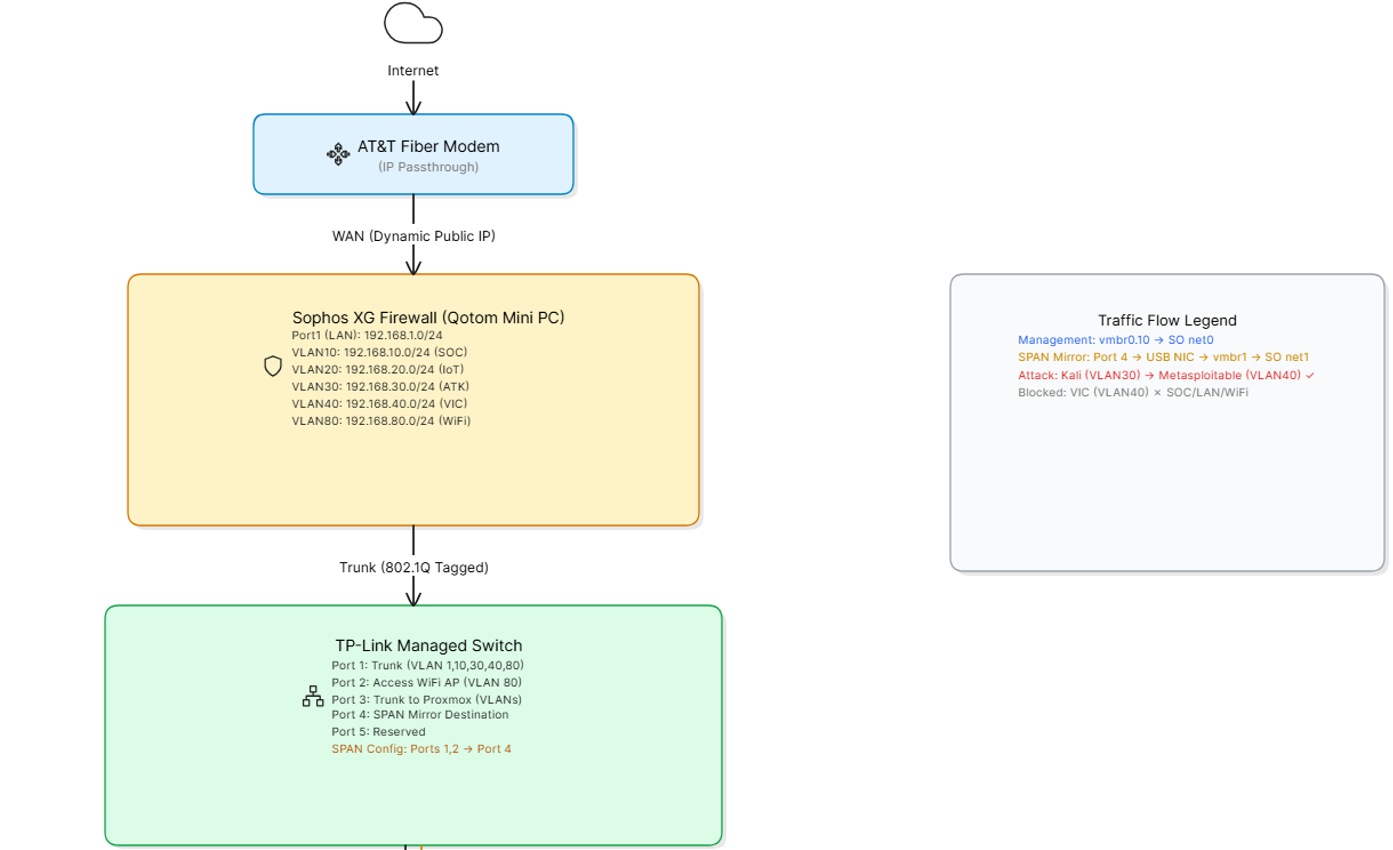
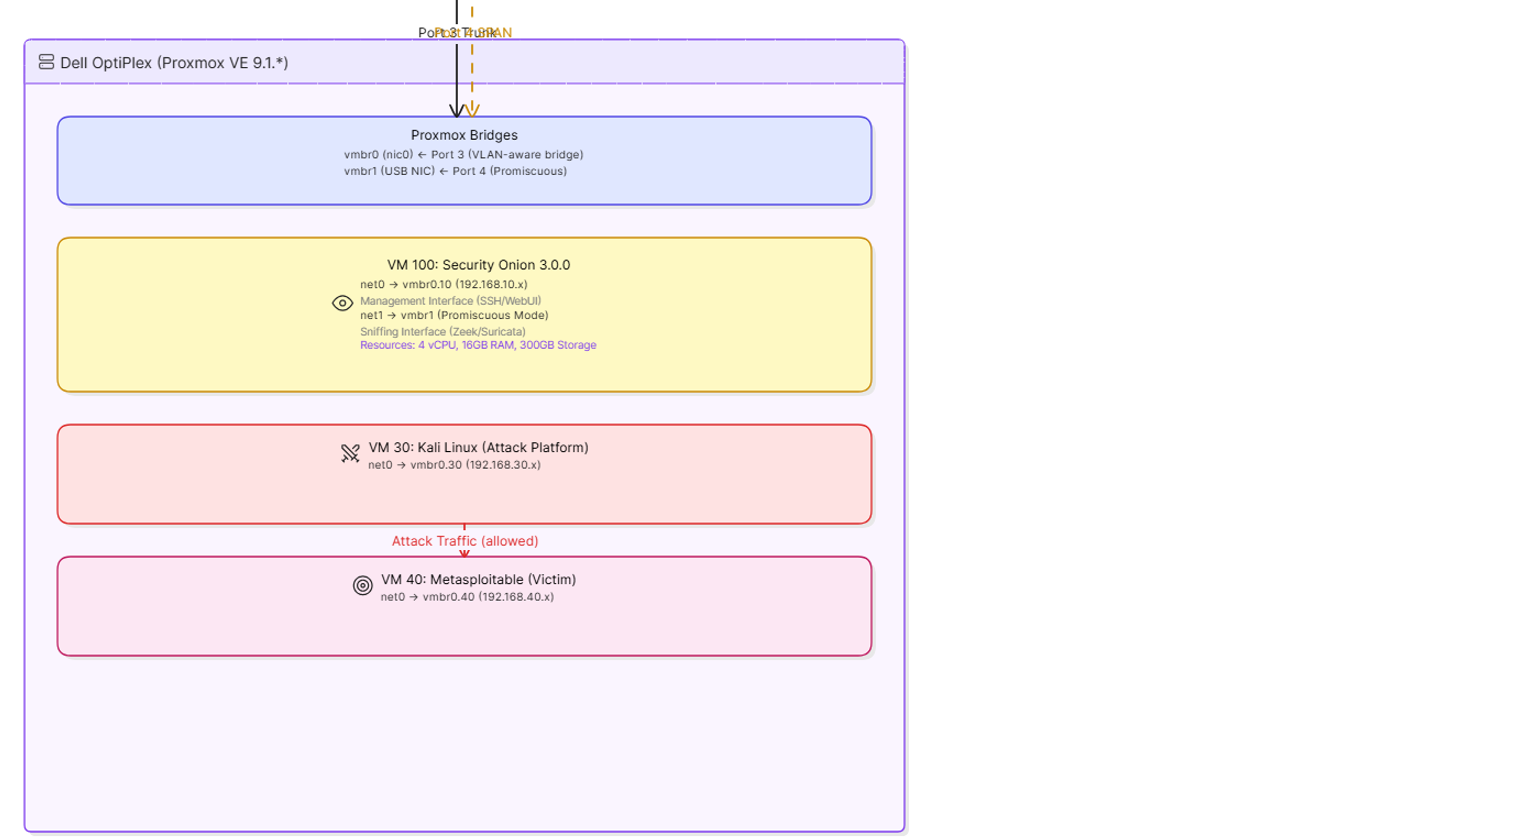
update

diff --git a/README.md b/README.md
@@ -61,8 +61,8 @@ graph TD
 
 ### Detailed ASCII Diagram
 
-![Firewall Rules](docs/images/networkDiagram1.png)
-![Firewall Rules](docs/images/networkDiagram2.png)
+![Firewall Rules](docs/images/networkdiagram.png)
+![Firewall Rules](docs/images/networkdiagram1.png)
 INTERNET
                               │
                               ▼
@@ -102,7 +102,7 @@ INTERNET
           ▼                     ▼
 
 ┌─────────────────────────────────────────────────────┐
-│      Dell OptiPlex 3040 (Proxmox VE 9.1.*)         │
+│      Dell OptiPlex (Proxmox VE 9.1.*)         │
 │  ┌───────────────────────────────────────────────┐  │
 │  │ vmbr0 (nic0) ←─ Port 3 (VLAN-aware bridge)   │  │
 │  │ vmbr1 (USB NIC) ←─ Port 4 (Promiscuous)      │  │